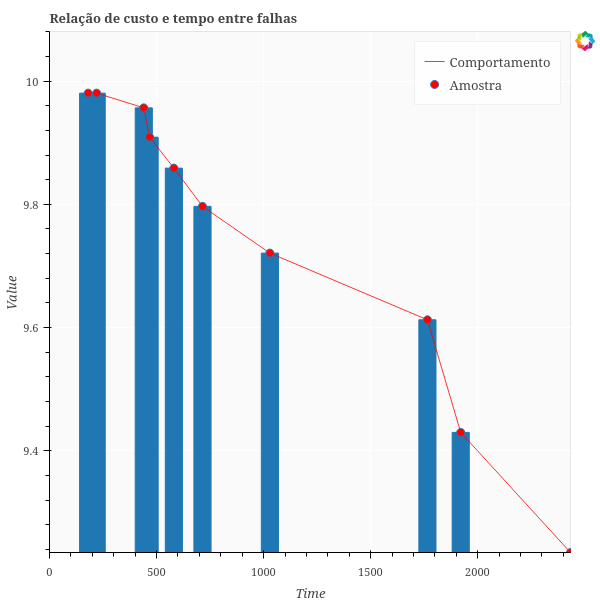
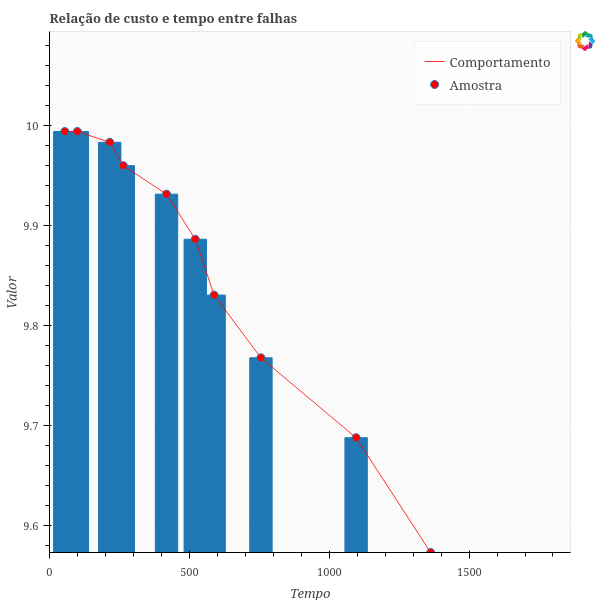
fix :sunglasses:

diff --git a/Ex1/python/genPlot.py b/Ex1/python/genPlot.py
@@ -9,7 +9,7 @@ def makeHistogram(title, x, y):
     p.xaxis.axis_label = 'Tempo'
     p.yaxis.axis_label = 'Valor'
     p.x_range.start = 0
-    p.x_range.end = max(x)
+    p.x_range.end = max(x) + 500
     p.y_range.start = min(y)
     p.y_range.end = max(y) + 0.1
     p.grid.grid_line_color = "white"
